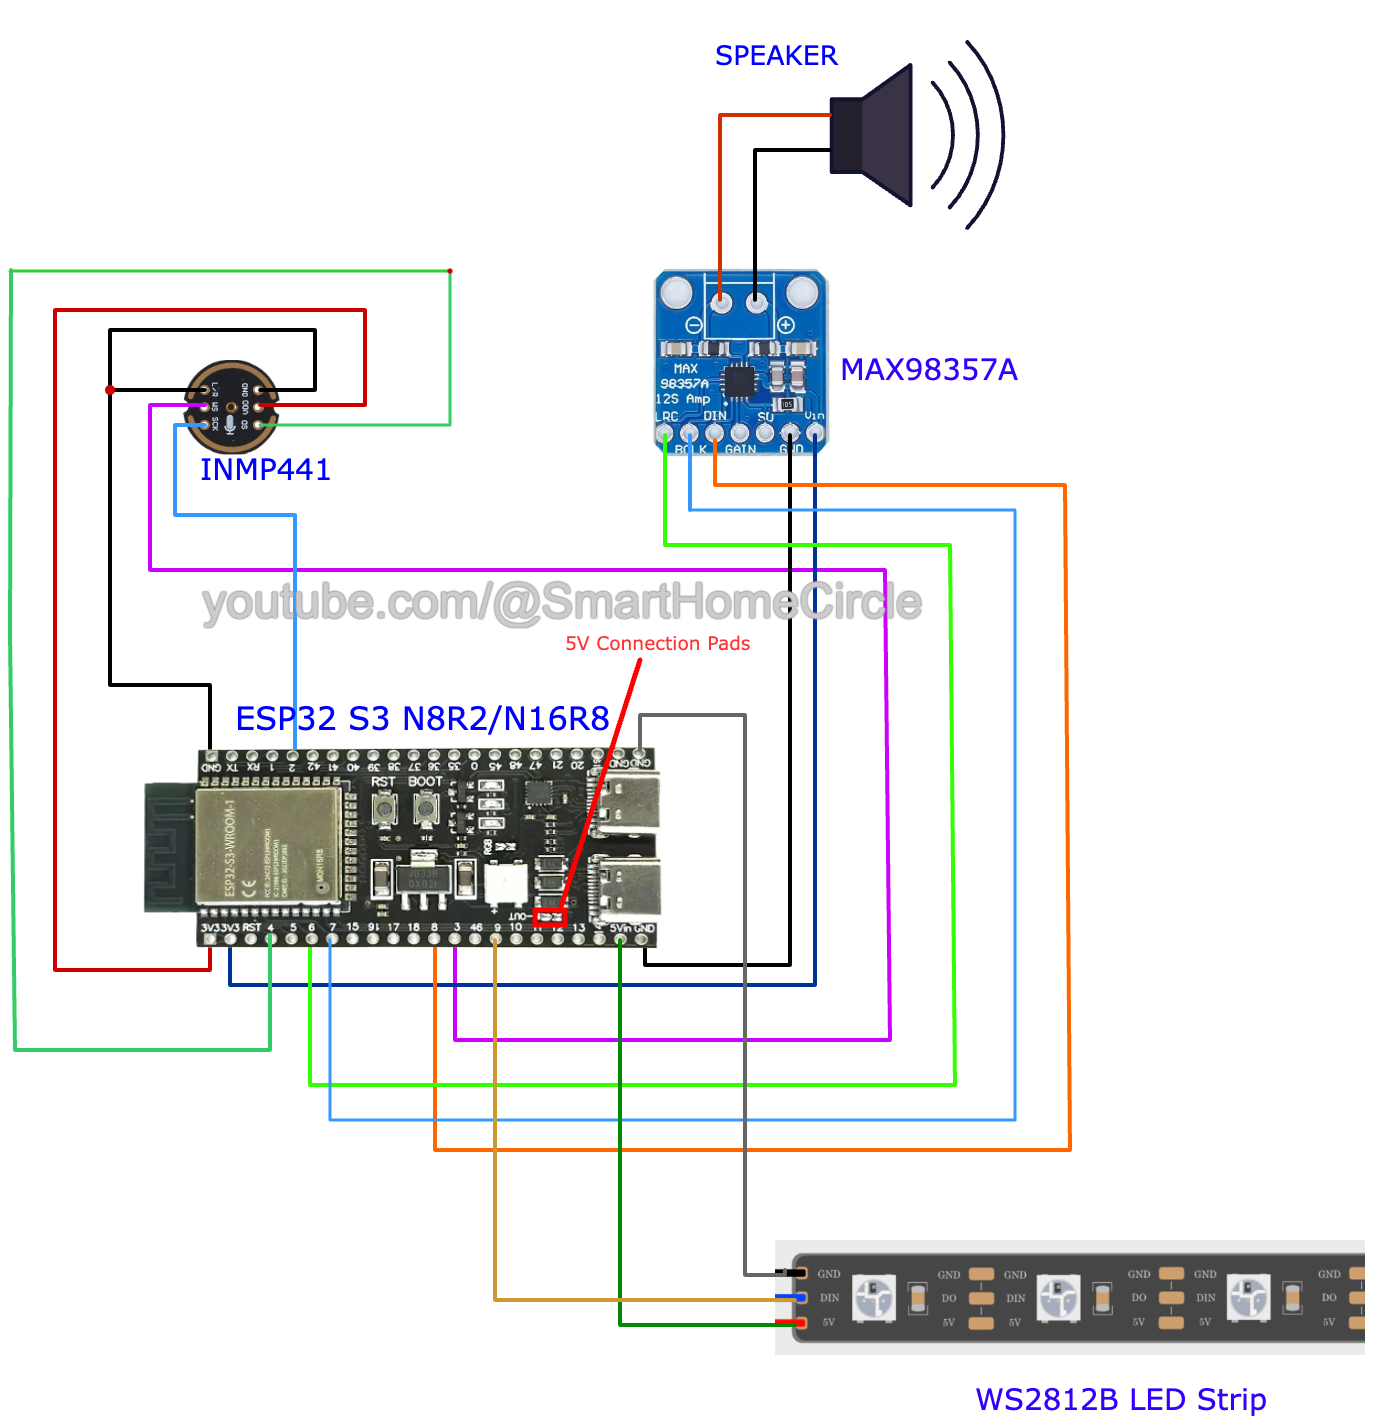
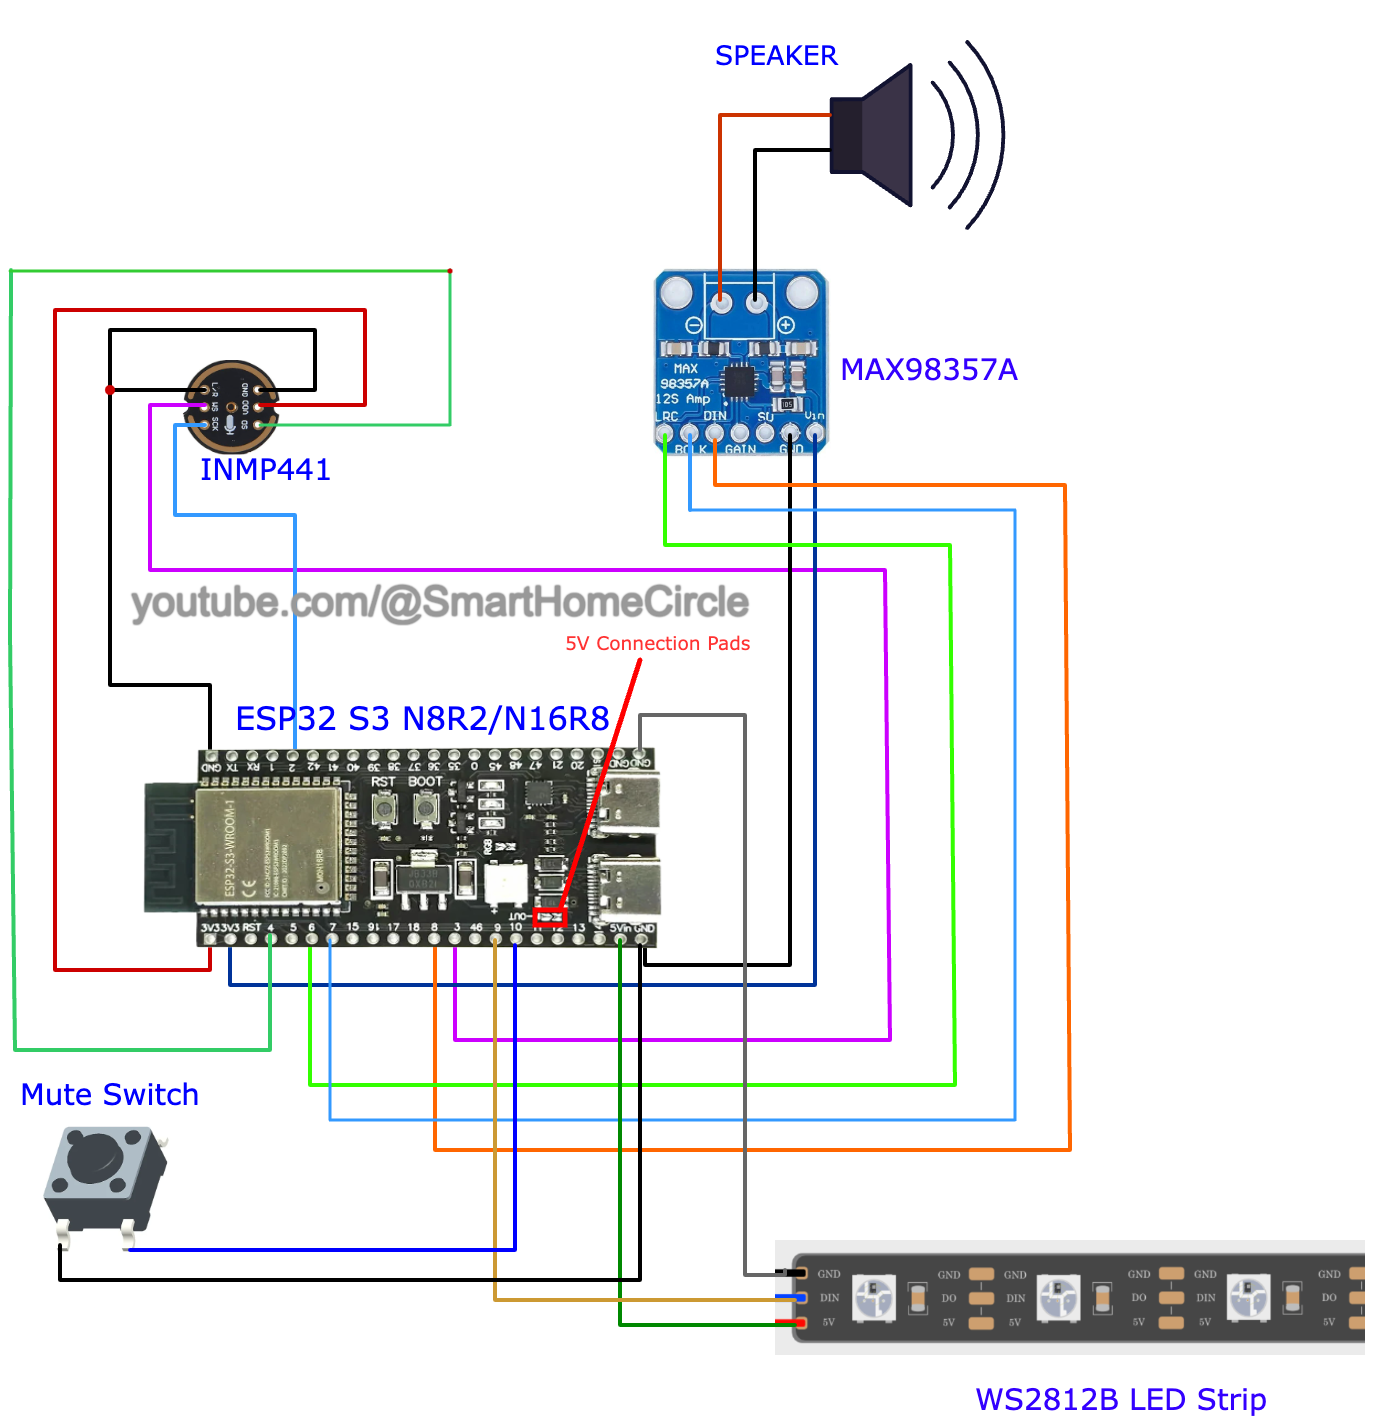
Adding mute switch to the article

Changed region(s): [[0.0916, 0.4011, 0.672, 0.4628], [0.0, 0.7405, 0.1527, 0.8948]]

diff --git a/data/blog/2024/How-I-created-my-voice-assistant-with-on-device-wake-word-using-home-assistant.md b/data/blog/2024/How-I-created-my-voice-assistant-with-on-device-wake-word-using-home-assistant.md
@@ -104,21 +104,23 @@ Here is the circuit diagram for connecting the ESP32 S3 with a microphone and sp
 
 Here is the pin mapping table
 
-| ESP32 S3 N8R2 or N16R8 | INMP441 Microphone | Speaker |  LED Strip WS2812B |
-| ----------- | ----------- | -------- |  -------- |
-| GND         |             | Gnd  |         |  
-| GPIO 6      |             | LRC  |         |  
-| GPIO 7      |             | BLCK |         |  
-| GPIO 8      |             | DIN  |         |  
-| 3v3         |             | Vin  |         |  
-| GPIO 4      |   SD        |      |         |  
-| GPIO 3      |   WS        |      |         |  
-| GPIO 2      |   SCK       |      |         |  
-| 3v3         |   VDD       |      |         |  
-| GND         |  GND & L/R  |      |         |
-| GND         |             |      |    GND  |
-| GPIO 9      |             |      |    Din  |
-| Vin (5v)    |             |      |    Vin  |
+| ESP32 S3 N8R2 or N16R8 | INMP441 Microphone | Speaker |  LED Strip WS2812B | Mute Switch |
+| ----------- | ----------- | -------- |  -------- |  -------- |
+| GND         |             |      |         |  switch pin 1 |  
+| GPIO 10     |             |      |         |  switch pin 2 |  
+| GND         |             | Gnd  |         |         |  
+| GPIO 6      |             | LRC  |         |         |  
+| GPIO 7      |             | BLCK |         |         |    
+| GPIO 8      |             | DIN  |         |         |    
+| 3v3         |             | Vin  |         |         |    
+| GPIO 4      |   SD        |      |         |         |    
+| GPIO 3      |   WS        |      |         |         |    
+| GPIO 2      |   SCK       |      |         |         |    
+| 3v3         |   VDD       |      |         |         |    
+| GND         |  GND & L/R  |      |         |         |
+| GND         |             |      |    GND  |         |    
+| GPIO 9      |             |      |    Din  |         |    
+| Vin (5v)    |             |      |    Vin  |         |    
 
 
 Once you have connected the microphone and the audio amplifier, let’s look at the code we must flash to the ESP32 S3 using ESPHome.
